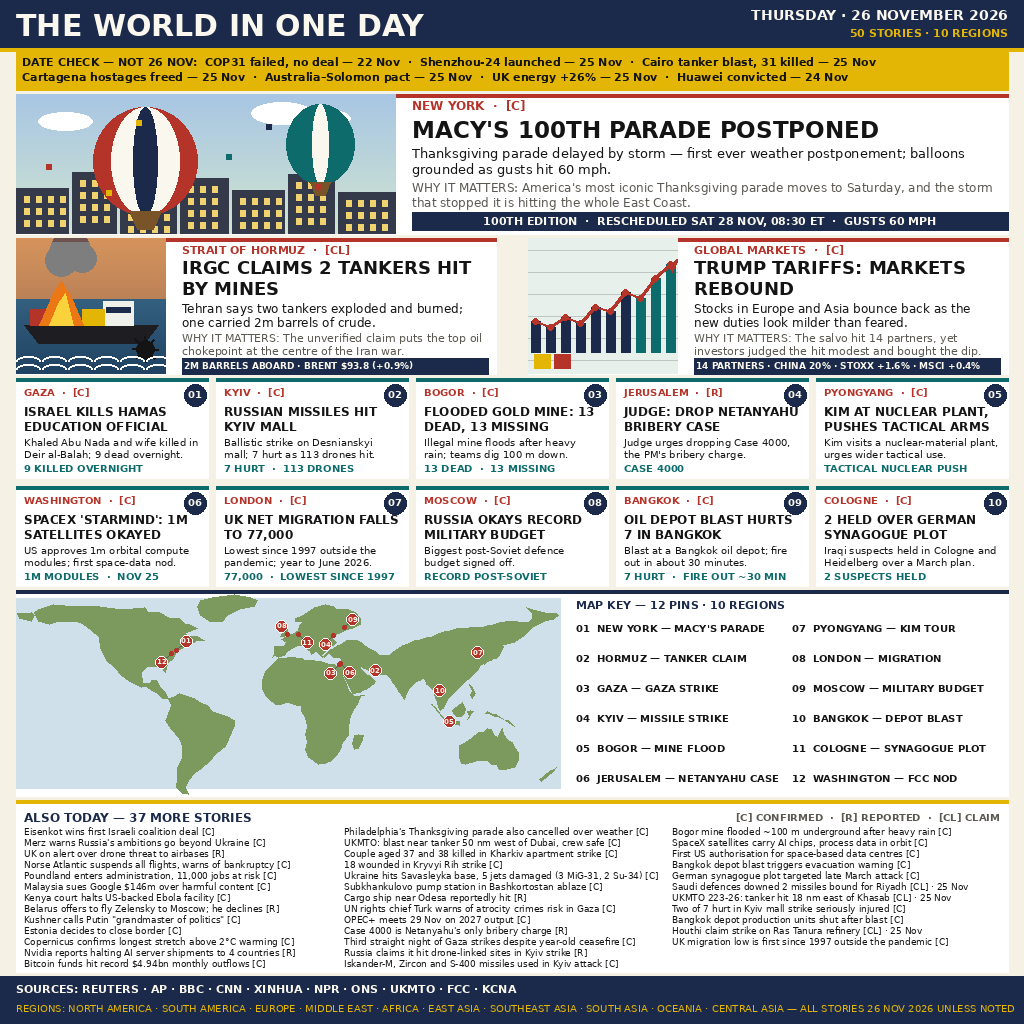
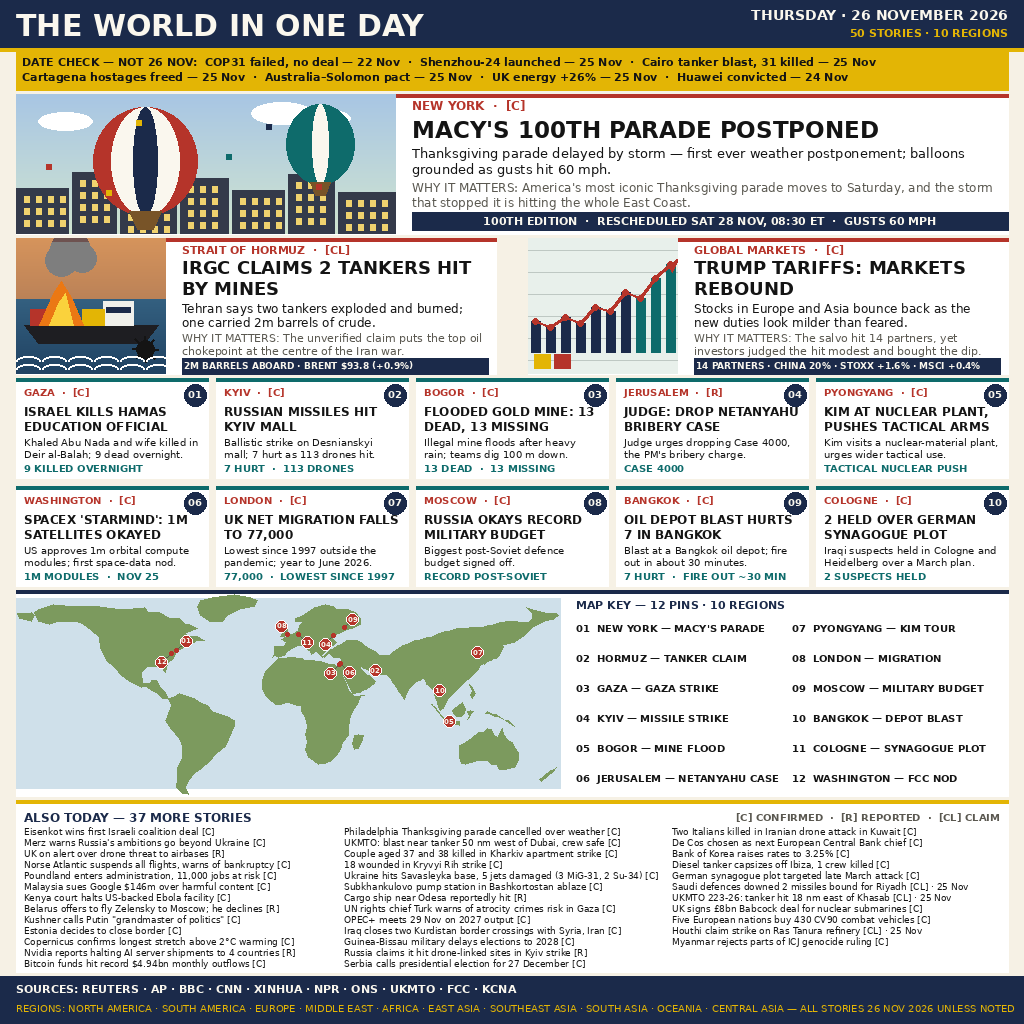
news-26-b173-numbers: ronde 3 revisi (layout V22)

Changed region(s): [[0.6562, 0.8125, 0.9062, 0.9375], [0.3438, 0.9062, 0.625, 0.9688]]

diff --git a/gen.py b/gen.py
@@ -180,7 +180,7 @@ ALSO = [
     ("Copernicus confirms longest stretch above 2°C warming", "[C]", False),
     ("Nvidia reports halting AI server shipments to 4 countries", "[R]", False),
     ("Bitcoin funds hit record $4.94bn monthly outflows", "[C]", False),
-    ("Philadelphia's Thanksgiving parade also cancelled over weather", "[C]", True),
+    ("Philadelphia Thanksgiving parade cancelled over weather", "[C]", True),
     ("UKMTO: blast near tanker 50 nm west of Dubai, crew safe", "[C]", True),
     ("Couple aged 37 and 38 killed in Kharkiv apartment strike", "[C]", False),
     ("18 wounded in Kryvyi Rih strike", "[C]", False),
@@ -189,21 +189,21 @@ ALSO = [
     ("Cargo ship near Odesa reportedly hit", "[R]", False),
     ("UN rights chief Turk warns of atrocity crimes risk in Gaza", "[C]", False),
     ("OPEC+ meets 29 Nov on 2027 output", "[C]", False),
-    ("Case 4000 is Netanyahu's only bribery charge", "[R]", False),
-    ("Third straight night of Gaza strikes despite year-old ceasefire", "[C]", False),
+    ("Iraq closes two Kurdistan border crossings with Syria, Iran", "[C]", False),
+    ("Guinea-Bissau military delays elections to 2028", "[C]", False),
     ("Russia claims it hit drone-linked sites in Kyiv strike", "[R]", False),
-    ("Iskander-M, Zircon and S-400 missiles used in Kyiv attack", "[C]", False),
-    ("Bogor mine flooded ~100 m underground after heavy rain", "[C]", False),
-    ("SpaceX satellites carry AI chips, process data in orbit", "[C]", False),
-    ("First US authorisation for space-based data centres", "[C]", False),
-    ("Bangkok depot blast triggers evacuation warning", "[C]", False),
+    ("Serbia calls presidential election for 27 December", "[C]", False),
+    ("Two Italians killed in Iranian drone attack in Kuwait", "[C]", False),
+    ("De Cos chosen as next European Central Bank chief", "[C]", False),
+    ("Bank of Korea raises rates to 3.25%", "[C]", False),
+    ("Diesel tanker capsizes off Ibiza, 1 crew killed", "[C]", False),
     ("German synagogue plot targeted late March attack", "[C]", False),
     ("Saudi defences downed 2 missiles bound for Riyadh [CL] · 25 Nov", "[CL]", False),
     ("UKMTO 223-26: tanker hit 18 nm east of Khasab [CL] · 25 Nov", "[CL]", False),
-    ("Two of 7 hurt in Kyiv mall strike seriously injured", "[C]", False),
-    ("Bangkok depot production units shut after blast", "[C]", False),
+    ("UK signs £8bn Babcock deal for nuclear submarines", "[C]", False),
+    ("Five European nations buy 430 CV90 combat vehicles", "[C]", False),
     ("Houthi claim strike on Ras Tanura refinery [CL] · 25 Nov", "[CL]", False),
-    ("UK migration low is first since 1997 outside the pandemic", "[C]", False),
+    ("Myanmar rejects parts of ICJ genocide ruling", "[C]", False),
 ]
 
 DATE_CHECK = [

diff --git a/README.md b/README.md
@@ -47,6 +47,16 @@ python3 main.py           # copies entry.png to out/entry.png
 
 Verified: stdlib-only venv simulation passes (exit 0, identical sha256),
 1024×1024, 50 stories, 12 map pins, 37 ALSO items, 7-item DATE CHECK.
+entry.png sha256: 08a6b3a60ee25acfacc33825ca980bbd28ca58f14646c6baa03b576711dbf7a8
+(180,398 bytes; deterministic re-render, same SHA twice).
+Ronde 3 (27 Nov): 3 item ALSO duplikat diganti — "Case 4000 is Netanyahu's
+only bribery charge" → "Iraq closes two Kurdistan border crossings with
+Syria, Iran" (Reuters 26 Nov); "Iskander-M, Zircon and S-400 missiles used
+in Kyiv attack" → "Serbia calls presidential election for 27 December"
+(Reuters/AP 26 Nov); "Two of 7 hurt in Kyiv mall strike seriously injured"
+→ "UK signs £8bn Babcock deal for nuclear submarines" (Reuters 26 Nov).
+Audit-duplikat sendiri: 0 duplikat baru (2 flag token-script hanya item lama
+yang diizinkan: Philadelphia sub-fakta hero + German plot March).
 Layout V22: masthead / DATE CHECK strip / Macy's banner hero / Hormuz +
 tariffs side by side / 10 cards 2×5 / world map + key / ALSO 3 columns /
 sources footer. Art is drawn on separate layers clipped to its own box,
